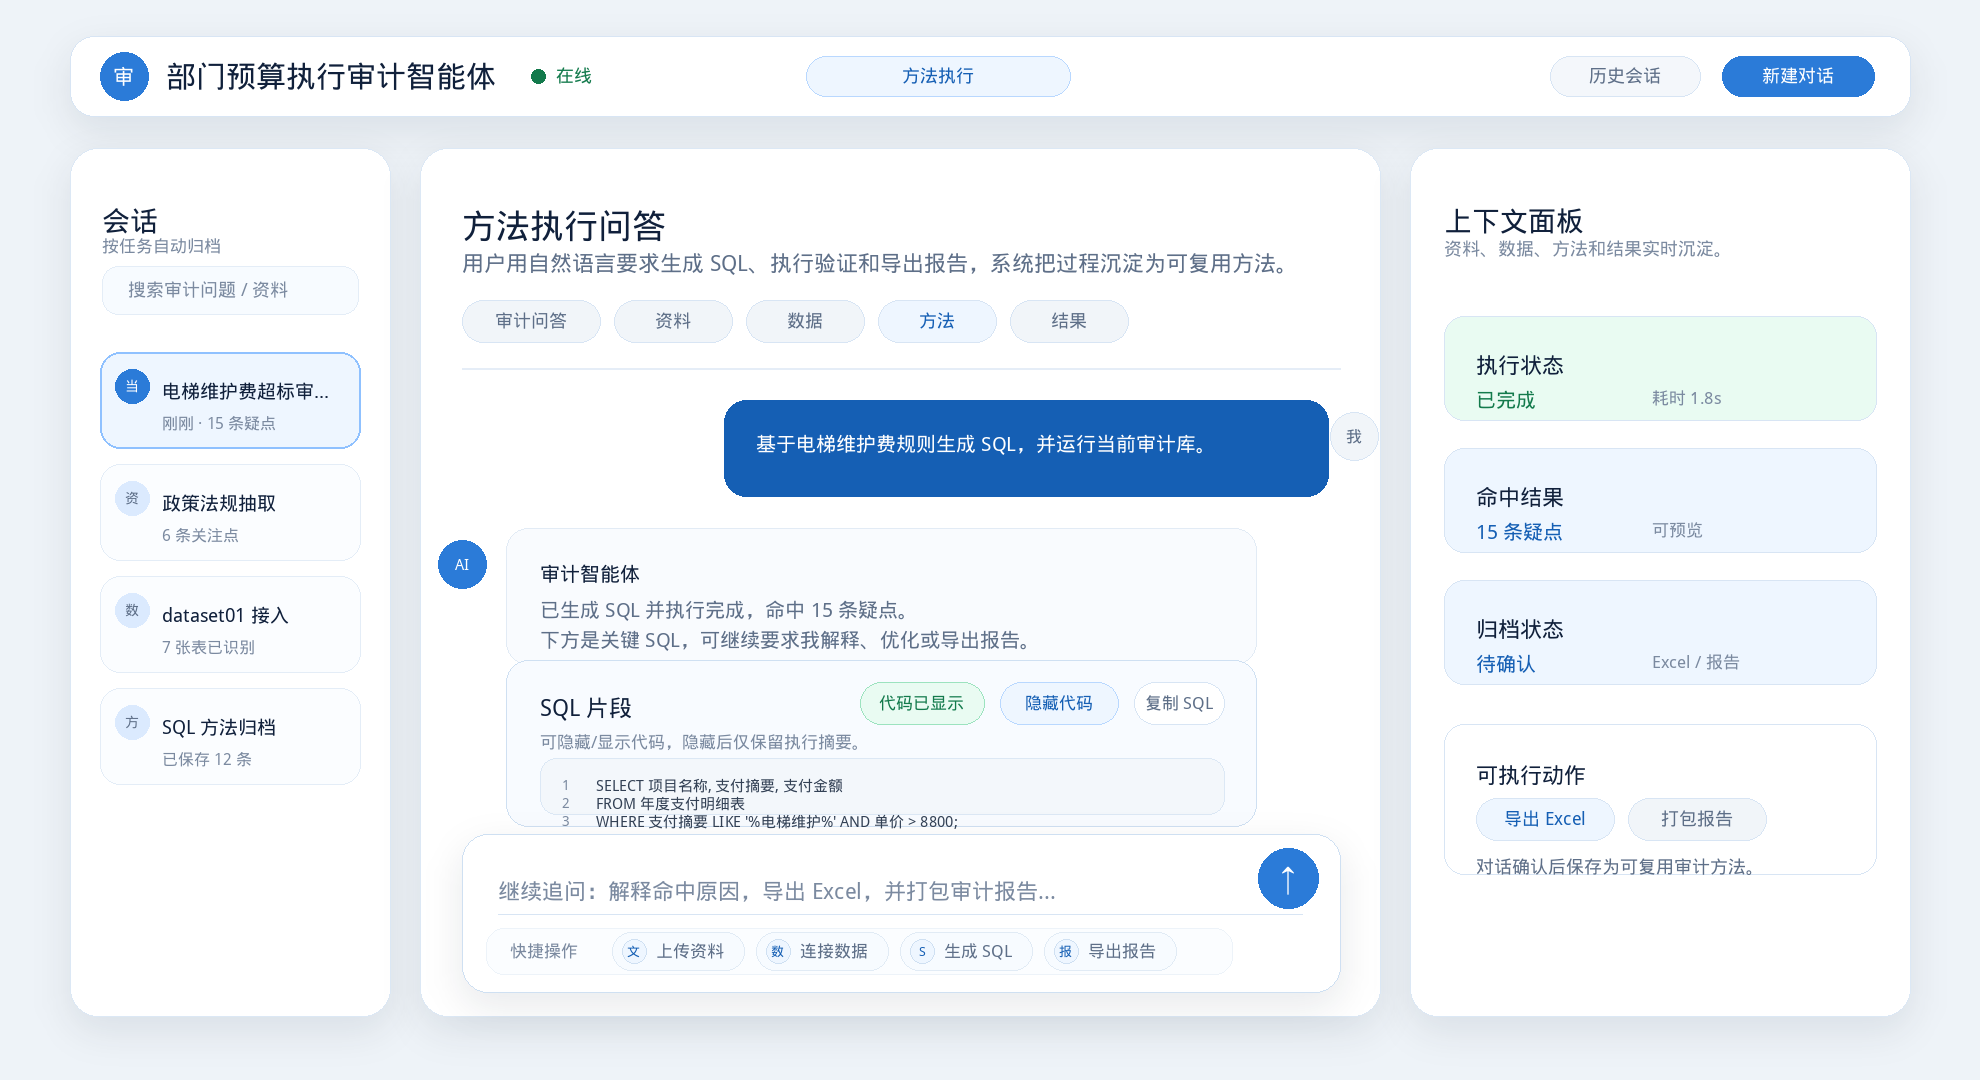
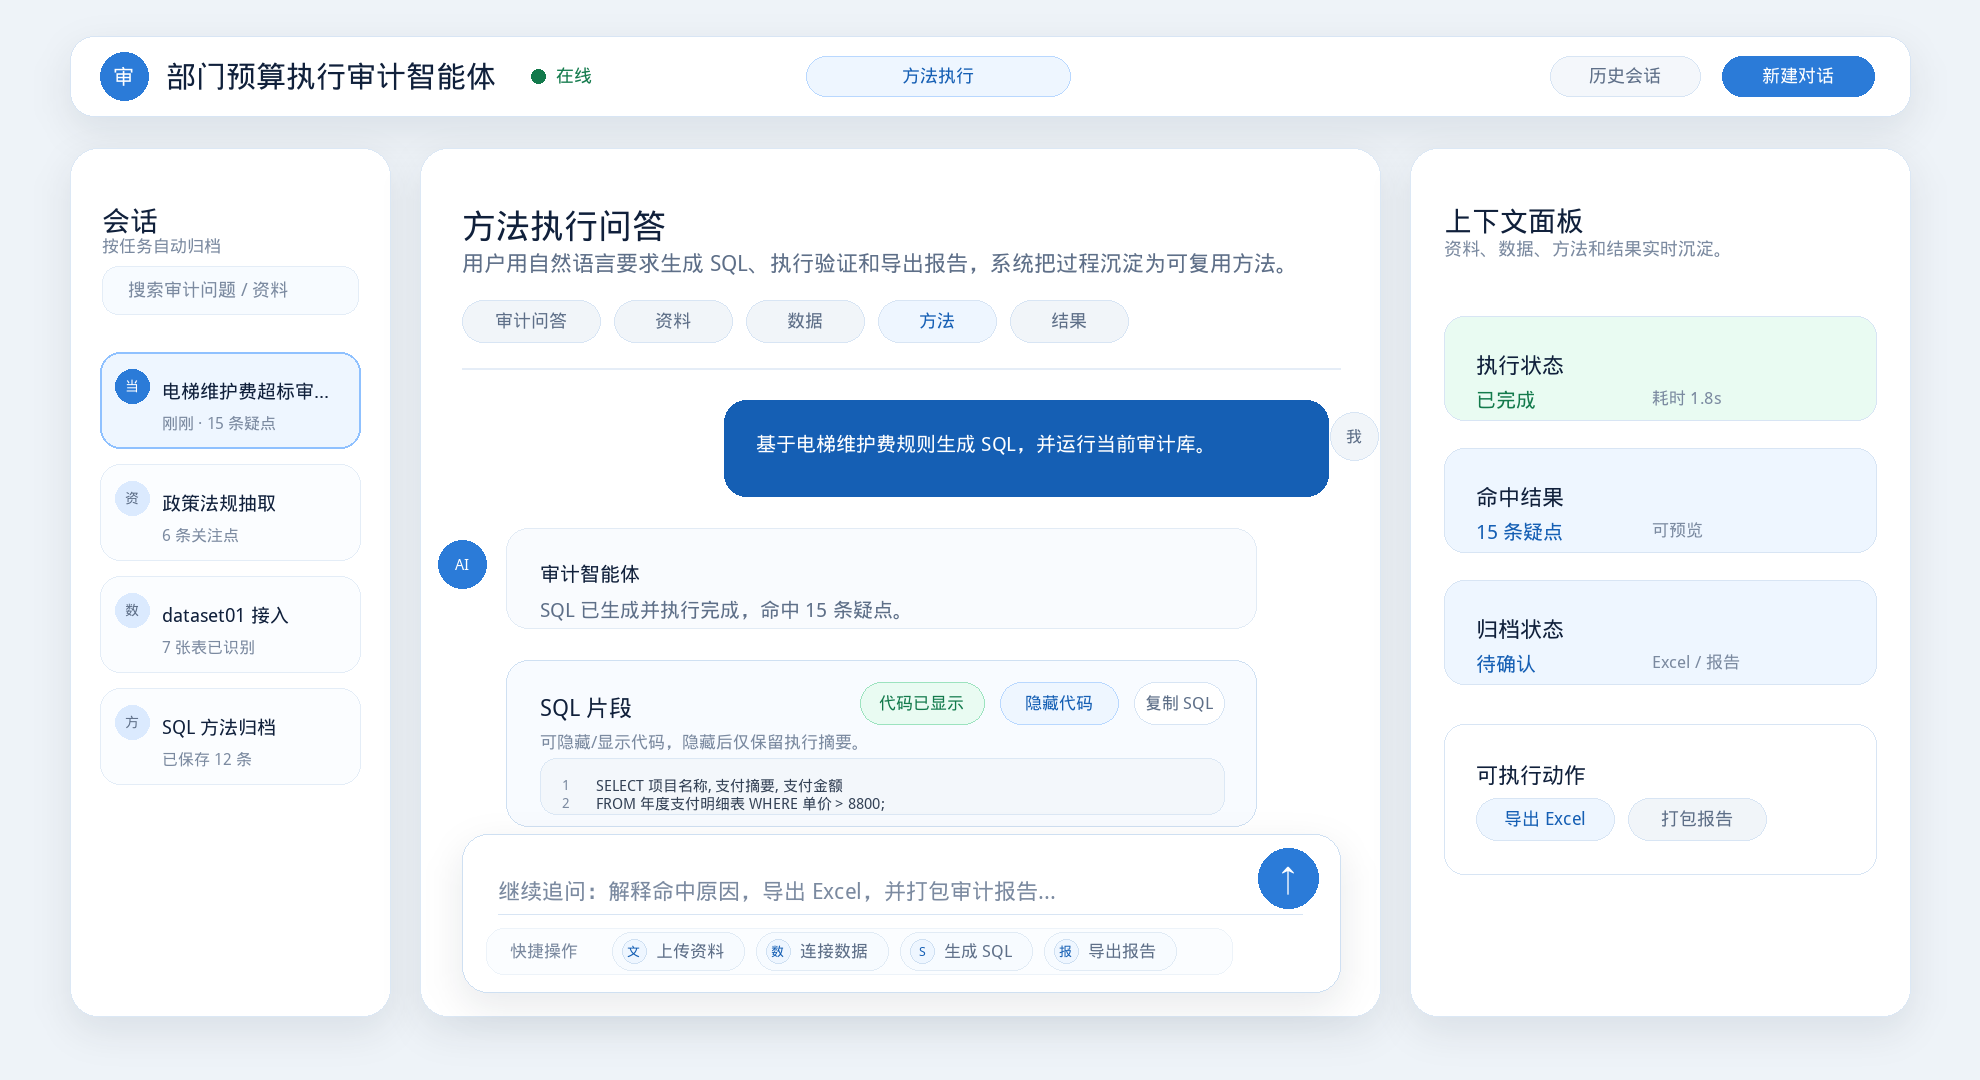
Fix method workflow text overlap

Changed region(s): [[0.2773, 0.55, 0.5237, 0.6111], [0.7394, 0.7944, 0.8934, 0.825], [0.3081, 0.7333, 0.4621, 0.7639]]

diff --git a/scripts/generate_design_assets.py b/scripts/generate_design_assets.py
@@ -346,8 +346,8 @@ def method_workflow() -> None:
     assistant_bubble(
         c,
         528,
-        ["已生成 SQL 并执行完成，命中 15 条疑点。", "下方是关键 SQL，可继续要求我解释、优化或导出报告。"],
-        h=136,
+        ["SQL 已生成并执行完成，命中 15 条疑点。"],
+        h=100,
     )
     c.rounded((506, 660, 1256, 826), 22, "#f8fbff", "#cfe0f2")
     c.text((540, 694), "SQL 片段", 23, COLORS["text"])
@@ -361,8 +361,7 @@ def method_workflow() -> None:
     c.rounded((540, 758, 1224, 814), 16, "#f3f7fb", "#dce8f5")
     sql = [
         "SELECT 项目名称, 支付摘要, 支付金额",
-        "FROM 年度支付明细表",
-        "WHERE 支付摘要 LIKE '%电梯维护%' AND 单价 > 8800;",
+        "FROM 年度支付明细表 WHERE 单价 > 8800;",
     ]
     for idx, line in enumerate(sql):
         y = 776 + idx * 18
@@ -378,7 +377,6 @@ def method_workflow() -> None:
     x = 1476
     x = chip(c, x, 798, "导出 Excel", 138, True)
     chip(c, x, 798, "打包报告", 138)
-    c.text((1476, 856), "对话确认后保存为可复用审计方法。", 18, COLORS["muted"])
     c.save()
 
 
